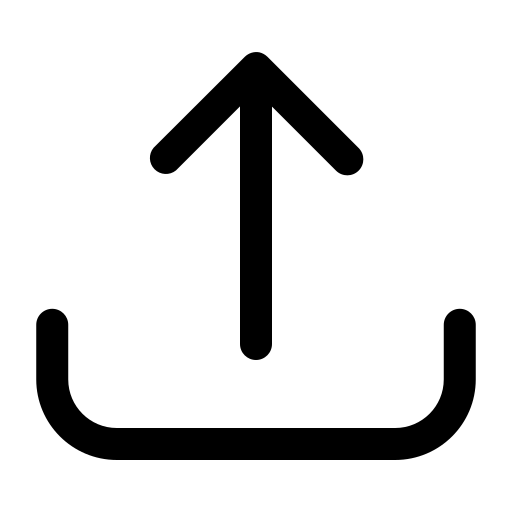
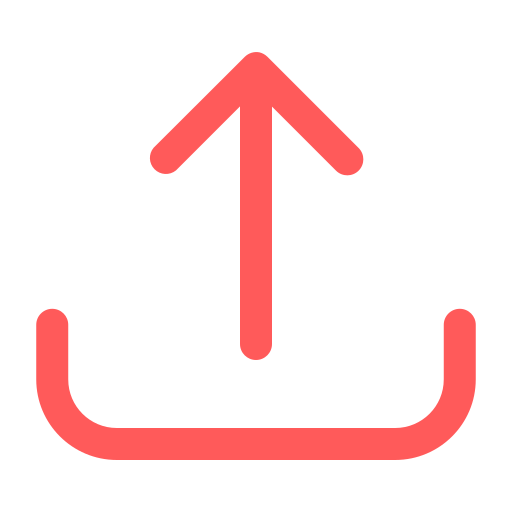
UI úpravy

Changed region(s): [[0.0625, 0.5938, 0.9375, 0.9062], [0.2812, 0.0938, 0.7188, 0.7188]]

diff --git a/index.html b/index.html
@@ -12,11 +12,11 @@
             --color-bg-secondary: #ffffff;
             --color-text-primary: #13343b;
             --color-text-secondary: #626c7c;
-            --color-primary: #164f8f;
-            --color-primary-hover: #0B5BA4;
+            --color-primary: #FF8B5A;
+            --color-primary-hover: #ff6727;
             --color-border: rgba(94, 82, 64, 0.2);
-            --color-error: #c0152f;
-            --color-success: #164f8f;
+            --color-error: #FF5A5A;
+            --color-success: #FF8B5A;
         }
 
         @media (prefers-color-scheme: dark) {
@@ -25,8 +25,8 @@
                 --color-bg-secondary: #262828;
                 --color-text-primary: #f5f5f5;
                 --color-text-secondary: #a7a9a9;
-                --color-primary: #164f8f;
-                --color-primary-hover: #0B5BA4;
+                --color-primary: #FF8B5A;
+                --color-primary-hover: #ff6727;
                 --color-border: rgba(119, 124, 124, 0.3);
             }
         }
@@ -61,10 +61,16 @@
             margin-bottom: 2rem;
         }
 
+        .logo-subtitle {
+            color: var(--color-text-secondary);
+            font-size: 1rem;
+            margin-bottom: 2rem;
+        }
+
         .upload-section {
             background: var(--color-bg-secondary);
             border: 2px dashed var(--color-border);
-            border-radius: 12px;
+            border-radius: 20px;
             padding: 3rem;
             text-align: center;
             width: 60%;
@@ -74,12 +80,12 @@
         }
 
         .upload-section:hover {
-            border-color: var(--color-primary);
+            border-color: var(--color-error);
             cursor: pointer;
         }
 
         .upload-section.dragover {
-            border-color: var(--color-primary);
+            border-color: var(--color-error);
         }
 
         .upload-icon {
@@ -115,7 +121,6 @@
 
         .btn:hover {
             background: var(--color-primary-hover);
-            transform: translateY(-1px);
         }
 
         .btn:disabled {
@@ -148,7 +153,7 @@
         }
 
         .btn-danger:hover {
-            background: #a0122a;
+            background: #ff2727;
         }
 
         .files-list {
@@ -200,10 +205,11 @@
         }
 
         table {
+            border-spacing: 0; 
             width: 100%;
-            border-collapse: collapse;
             background: var(--color-bg-secondary);
-            border-radius: 8px;
+            border: 1px solid var(--color-border);
+            border-radius: 12px;
             overflow: hidden;
             margin-bottom: 2rem;
         }
@@ -215,7 +221,7 @@
         }
 
         th {
-            background: rgba(22, 79, 143, 0.2);
+            
             font-weight: 600;
         }
 
@@ -225,7 +231,7 @@
 
         .summary-row {
             font-weight: bold;
-            background: rgba(22, 79, 143, 0.2);
+            
         }
 
         .form-row {
@@ -275,7 +281,7 @@
         input[type="text"]:focus,
         select:focus,
         textarea:focus {
-            outline: 2px solid var(--color-primary);
+            outline: 2px solid #FFA95A;
             border-color: var(--color-primary);
         }
 
@@ -299,15 +305,15 @@
         }
 
         .alert-success {
-            background: rgba(22, 79, 143, 0.2);
-            color: var(--color-success);
-            border: 1px solid var(--color-success);
+            background: rgba(255, 169, 90, 1);
+            color: white;
+            border: 1px solid rgba(255, 169, 90, 1);
         }
 
         .alert-error {
-            background: rgba(192, 21, 47, 0.1);
-            color: var(--color-error);
-            border: 1px solid var(--color-error);
+            background: rgba(192, 21, 47, 1);
+            color: white;
+            border: 1px solid rgba(192, 21, 47, 1);
         }
 
         .processing {
@@ -345,20 +351,27 @@
             margin: 0 auto 1rem;
         }
 
+        .logo {
+            height:80px;      /* Fixná výška */
+            width: auto;       /* Prispôsobí šírke */
+            max-height: 80px;  /* Responsívne limit */
+        }
+
     </style>
 </head>
 <body>
+    <header style="text-align: center;">
+        <a href="https://tomecjak.github.io/plotr/"><img src="image/logo.svg" alt="plotr logo" class="logo"></a>
+        <p class="logo-subtitle">Print Like Orc, Then Relax</p>
+    </header>
+
     <div class="container">
-        <div style="text-align: center;">
-            <h1>PLOTR β</h1>
-            <p class="subtitle">Print Like Orc, Then Relax</p>
-        </div>
 
         <div id="alertContainer"></div>
 
         <div class="upload-section clickable" id="uploadSection">
             <img src="image/upload-icon.png" alt="Upload priečinok" class="upload-icon">
-            <p style="margin-bottom: 1rem;">Pretiahnite PDF súbory sem alebo kliknite na tlačidlo</p>
+            <p>Vyberte PDF súbory alebo ich pretiahnite sem</p>
             <div class="file-input-wrapper">
                 <input type="file" id="fileInput" accept=".pdf" multiple style="display: none;">
             </div>
@@ -482,10 +495,11 @@
 
         <div id="filesList" class="files-list hidden"></div>
 
-        <footer style="text-align: center; margin-top: 1rem;">
-            <a href="https://github.com/tomecjak" style="color: var(--color-text-secondary); text-decoration: none;">VibeCode by Jakub 🤖</a>
-        </footer>
     </div>
+
+    <footer style="text-align: center; margin-top: 1rem;">
+        <a href="https://github.com/tomecjak" style="color: var(--color-text-secondary); text-decoration: none;">VibeCode by Jakub 🤖</a>
+    </footer>
 
     <script>
         document.addEventListener('DOMContentLoaded', function() {
@@ -700,26 +714,6 @@
             }, 550);
         }
 
-        function displayFilesList() {
-            filesList.innerHTML = '';
-            filesList.classList.remove('hidden');
-            
-            pdfFiles.forEach((file, index) => {
-                const fileItem = document.createElement('div');
-                fileItem.className = 'file-item';
-                fileItem.innerHTML = `
-                    <div class="file-info">
-                        <div class="file-name">${file.name}</div>
-                        <div class="file-size">${formatFileSize(file.size)}</div>
-                    </div>
-                    <div class="file-actions">
-                        <button class="btn btn-small btn-danger" onclick="removeFile(${index})">Odstrániť</button>
-                    </div>
-                `;
-                filesList.appendChild(fileItem);
-            });
-        }
-
         function displayUploadSection() {
             uploadSection.classList.add('hidden');
         }
@@ -854,6 +848,26 @@
             tableSection.classList.remove('hidden');
             showAlert(`Úspešne spracovaných ${pdfFiles.length} PDF súborov.`, 'success');
             updateA4Totals();
+        }
+
+        function displayFilesList() {
+            filesList.innerHTML = '';
+            filesList.classList.remove('hidden');
+            
+            pdfFiles.forEach((file, index) => {
+                const fileItem = document.createElement('div');
+                fileItem.className = 'file-item';
+                fileItem.innerHTML = `
+                    <div class="file-info">
+                        <div class="file-name">${file.name}</div>
+                        <div class="file-size">${formatFileSize(file.size)}</div>
+                    </div>
+                    <div class="file-actions">
+                        <button class="btn btn-small btn-danger" onclick="removeFile(${index})">Odstrániť</button>
+                    </div>
+                `;
+                filesList.appendChild(fileItem);
+            });
         }
 
         function loadProjectData() {
